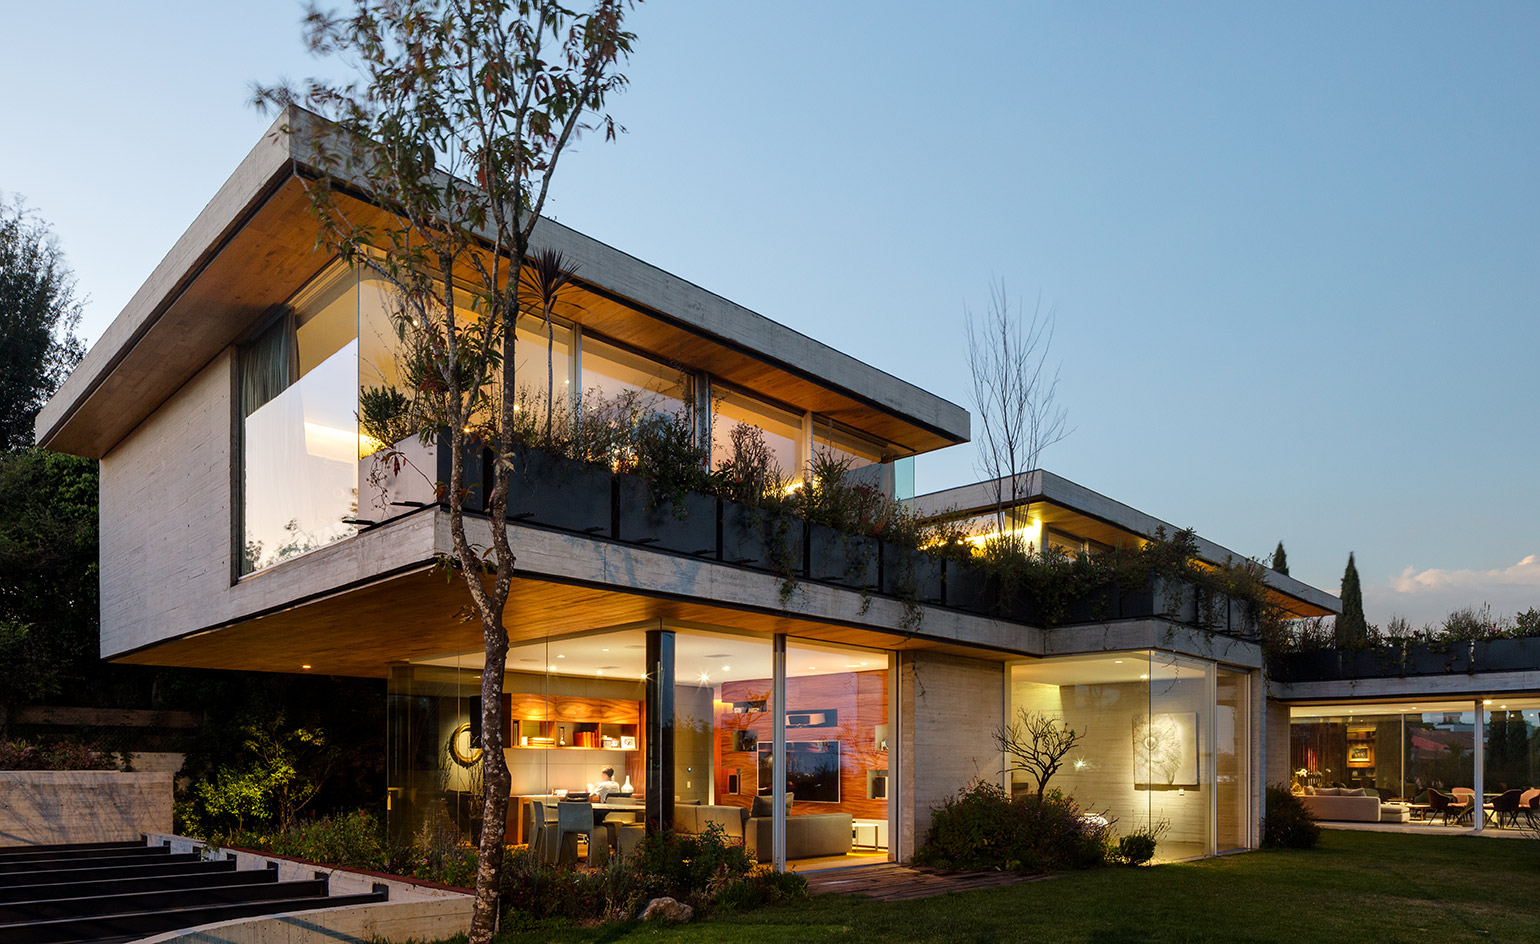
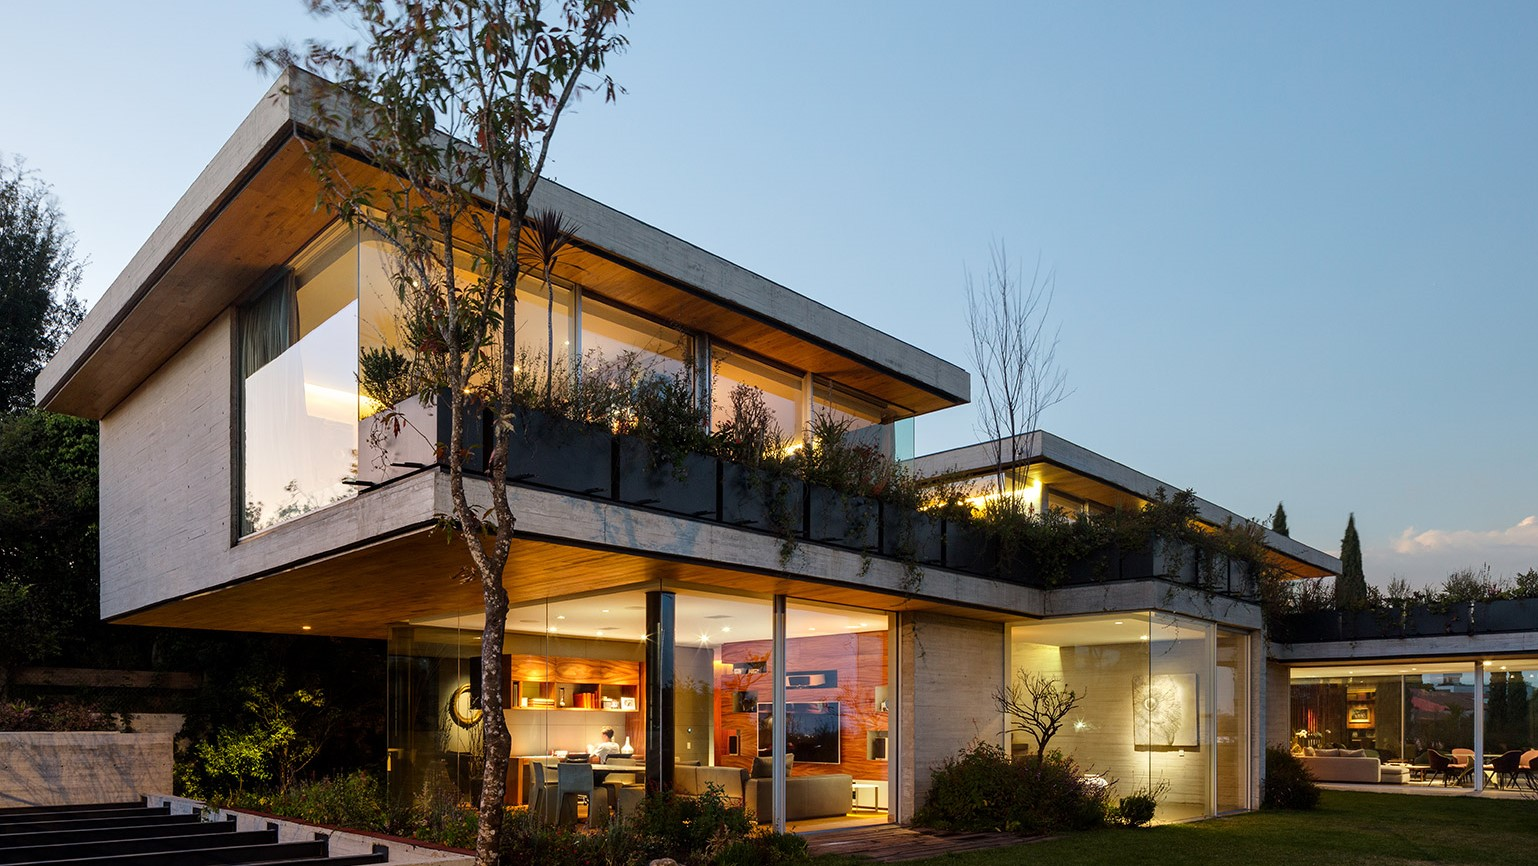
Réglage css (image de fond)

diff --git a/vue/faq.css b/vue/faq.css
@@ -4,20 +4,24 @@
 	flex-direction: column;	
 	font-family: 'Sofia Pro', 'Helvetica Neue', Helvetica, Arial, sans-serif;
 	margin-top: 5%;
+	margin-bottom: 90px;
+	
 }
 
-
-
+body{
+	background-color: rgba(218, 218, 218, 0.705)
+}
 ul,li{
    list-style-type: none;
 }
 
 .question{
-	margin-top: 8px;
-	margin-bottom: 8px;
-	margin-left: 100px;
-	margin-right: 130px;
-	background-color:rgb(230,230,230);
+	margin-top: 10px;
+	margin-bottom: 10px;
+	margin-left: auto;
+	margin-right: auto;
+	width: 50%;
+	background-color:rgb(253, 253, 253);
 	border: 2px solid rgb(160,160,160);
 	padding-top: 20px;
 	padding-bottom: 20px;
@@ -31,7 +35,7 @@ ul,li{
 
 
 div a{
-	display: inline-block;
+	
 	text-decoration: none;
 	color: rgb(0,128,192);
 
@@ -40,7 +44,7 @@ div a{
 
 .question:hover .reponse{
 	margin-top: 8px;
-	z-index: 1000;
+	z-index: 2;
 	padding-top: 15px;
 	padding-bottom: 15px;
 	background-color:  rgb(255,255,255);

diff --git a/vue/Pieces.css b/vue/Pieces.css
@@ -1,3 +1,7 @@
+.wrapper{
+	margin-bottom: 90px;
+}
+
 /* The Modal (background) */
 .modal {
 	display: none; /* Hidden by default */
@@ -29,14 +33,11 @@
 .row{
 margin-bottom: 10px;
 }
-<<<<<<< HEAD
 #button_submit{
 	margin-top: 10px;
 	padding: 5px 10px 5px 10px;
 }		
 
-=======
->>>>>>> 2179cc9d3870b755fbcfd35c8eff715211eb414f
 
 /* The Close Button */
 .close {
@@ -54,7 +55,7 @@ margin-bottom: 10px;
 }
 
 body{
-background: url("../images/maison3.jpg");
+background: url("../images/maison11.jpg");
 background-size: cover;
 background-repeat: no-repeat;
 }

diff --git a/vue/contact_us.css b/vue/contact_us.css
@@ -1,6 +1,6 @@
 body{
 	font-family: 'Sofia Pro', 'Helvetica Neue', Helvetica, Arial, sans-serif;
-    background: url("../images/maison3.jpg");
+    background: url("../images/maison7.jpg");
     background-size: cover;
     background-repeat: no-repeat;
 }
@@ -19,7 +19,7 @@ form {
 
     justify-content: space-evenly;
   
-	background: rgba(0, 0, 0, 0.884);
+	background: rgba(0, 0, 0, 0.95);
     color: #fff;
     box-sizing: border-box;
     border-radius: 20px;

diff --git a/vue/inscription.css b/vue/inscription.css
@@ -1,3 +1,7 @@
+.wrapper{
+	margin-bottom: 30px;
+}
+
 body
 {
   display: grid;
@@ -11,13 +15,14 @@ body
   background-size: cover;
   background-repeat: no-repeat;
   font-family: sans-serif;
+  
 }
 
 .wrapper
 {
   grid-row: 2/5;
   grid-column: 3/4;
-
+  
   display : flex;
   flex-direction: column;
   justify-content: space-around;

diff --git a/vue/house_style.css b/vue/house_style.css
@@ -1,4 +1,6 @@
-
+.wrapper{
+	margin-bottom: 90px;
+}
 /*body {font-family: Arial, Helvetica, sans-serif;}*/
 
 /* The Modal (background) */
@@ -54,7 +56,7 @@
 }
 
 body{
-	background: url("../images/maison3.jpg");
+	background: url("../images/maison10.jpg");
     background-size: cover;
     background-repeat: no-repeat;
 }

diff --git a/vue/legal_and_privacy.css b/vue/legal_and_privacy.css
@@ -3,8 +3,14 @@
 	flex-direction: column;	
 	font-family: sans-serif,'Sofia Pro', 'Helvetica Neue', Helvetica, Arial, sans-serif;
 	margin-top: 5%;
-
+	margin-bottom: 90px;
+	
 }
+
+body{
+	background-color: rgba(218, 218, 218, 0.705)
+}
+
 .logo{
 	float: right;
 }

diff --git a/vue/style.css b/vue/style.css
@@ -1,3 +1,4 @@
+
 body
 {
   display: grid;
